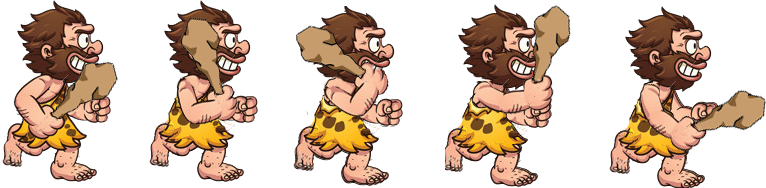
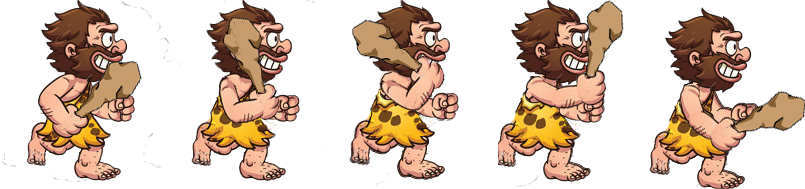
Caveman running to the left side and jumping

diff --git a/Caveman/Models/Caveman.cs b/Caveman/Models/Caveman.cs
@@ -1,6 +1,7 @@
 using Microsoft.Xna.Framework;
 using Microsoft.Xna.Framework.Content;
 using Microsoft.Xna.Framework.Graphics;
+using Microsoft.Xna.Framework.Input;
 using System;
 using System.Collections.Generic;
 using System.Linq;
@@ -12,8 +13,12 @@ namespace Caveman.Models
     public class Caveman : Sprite
     {
         float _timer;
-        public Caveman(Vector2 _position/*, Texture2D _texture, Color _color, Dictionary<string, Animation> _animations*/)
-            //: base(_position,_texture, _color, _animations)
+        private float VelocityX;
+        private float VelocityY =0.0f;
+        private float gravity = 0.5f;
+        private bool Jumping = false;
+
+        public Caveman(Vector2 _position)
         {
             this.Position = _position;
             this.Color = Color.White;
@@ -23,16 +28,19 @@ namespace Caveman.Models
         {
             Dictionary<String, Animation> animDict = new Dictionary<string, Animation> {
                 {"Standing",
-                    new Animation(content.Load<Texture2D>("CavemanStanding_sm"),4,0.5f)
+                    new Animation(content.Load<Texture2D>("CavemanStanding_sm"),4,0.4f,Animation.Loopeable)
                 },
-                {"Walking",
-                    new Animation(content.Load<Texture2D>("CavemanRunning"),7,0.2f)
+                {"Running",
+                    new Animation(content.Load<Texture2D>("CavemanRunning_sm"),6,0.2f,Animation.Loopeable)
+                },
+                {"Running_left",
+                    new Animation(content.Load<Texture2D>("CavemanRunningLeft_sm"),6,0.2f,Animation.Loopeable)
                 },
                 {"Jumping",
-                    new Animation(content.Load<Texture2D>("CavemanJumping"),4,0.2f)
+                    new Animation(content.Load<Texture2D>("CavemanJumping_sm"),7,0.3f,Animation.NotLoopeable)
                 },
                 {"Hitting",
-                    new Animation(content.Load<Texture2D>("CavemanHitting"),5,0.2f)
+                    new Animation(content.Load<Texture2D>("CavemanHitting_sm"),5,0.1f,Animation.NotLoopeable)
                 },
             };
 
@@ -42,7 +50,46 @@ namespace Caveman.Models
         public override void Update(ref GameTime gameTime)
         {
             currentAnimation = AnimationsDict["Standing"];
-            //currentAnimation.CurrentFrame = 0;
+            currentAnimation.IsLooping = false;
+
+            #region Keys
+            if (Keyboard.GetState().IsKeyDown(Keys.C))
+            {
+                currentAnimation = AnimationsDict["Hitting"];
+            }
+            else if (Keyboard.GetState().IsKeyDown(Keys.Right))
+            {
+                if (!currentAnimation.IsLooping)
+                {
+                    this.Position = new Vector2(this.Position.X + 2, this.Position.Y);
+                    currentAnimation = AnimationsDict["Running"];
+                }
+            }
+            else if (Keyboard.GetState().IsKeyDown(Keys.Left))
+            {
+                this.Position = new Vector2(this.Position.X - 2, this.Position.Y);
+                currentAnimation = AnimationsDict["Running_left"];
+            }
+
+            if (Keyboard.GetState().IsKeyDown(Keys.Space))
+            {
+                currentAnimation = AnimationsDict["Jumping"];
+                StartJumping();
+            }
+            if (Keyboard.GetState().IsKeyUp(Keys.Space)) {
+                EndJumping();
+            }
+            #endregion
+
+            VelocityY += gravity;
+            this.Position += new Vector2(0, VelocityY);
+
+            if (this.Position.Y > 350)
+            {
+                this.Position = new Vector2(this.Position.X, 350);
+                VelocityY = 0.0f;
+                Jumping = false;
+            }
 
             _timer += (float)gameTime.ElapsedGameTime.TotalSeconds;
 
@@ -53,14 +100,38 @@ namespace Caveman.Models
                 currentAnimation.CurrentFrame++;
 
                 if (currentAnimation.CurrentFrame >= currentAnimation.FrameCount)
+                {
                     currentAnimation.CurrentFrame = 0;
+                    currentAnimation.IsLooping = false;
+                }
             }
         }
 
+        private void StartJumping()
+        {
+            if (!Jumping)
+            {
+                VelocityY = -12.0f;
+                Jumping = true;
+            }
+        }
+
+        private void EndJumping()
+        {
+            if (VelocityY < -6.0f)
+            {
+                VelocityY = -6.0f;
+                
+            }
+        }
+
+        internal void MoveBackwards()
+        {
+            this.Position = new Vector2(this.Position.X -2, this.Position.Y);
+        }
 
         public override void Draw(ref SpriteBatch spriteBatch, ref GameTime gameTime)
         {
-            //spriteBatch.Draw(this.currentAnimati, this.Position, this.Color);
 
             spriteBatch.Draw(currentAnimation.Texture,
                  Position,

diff --git a/Caveman/Models/Animation.cs b/Caveman/Models/Animation.cs
@@ -9,31 +9,27 @@ namespace Caveman.Models
 {
     public class Animation
     {
+        public static bool NotLoopeable = false;
+        public static bool Loopeable = true;
+
         public int CurrentFrame { get; set; }
-
         public int FrameCount { get; private set; }
-
         public int FrameHeight { get { return Texture.Height; } }
-
         public float FrameSpeed { get; set; }
-
         public int FrameWidth { get { return Texture.Width / FrameCount; } }
-
         public bool IsLooping { get; set; }
+        public bool IsLoopeable { get; set; }
 
         public Texture2D Texture { get; private set; }
 
-        public Animation(Texture2D texture, int frameCount, float frameSpeed)
+        public Animation(Texture2D texture, int frameCount, float frameSpeed, bool isLoopeable)
         {
-            Texture = texture;
-
-            FrameCount = frameCount;
-
-            IsLooping = true;
-
-            FrameSpeed = frameSpeed;
-
-            CurrentFrame = 0;
+            this.Texture = texture;
+            this.FrameCount = frameCount;
+            this.IsLooping = true;
+            this.FrameSpeed = frameSpeed;
+            this.CurrentFrame = 0;
+            this.IsLoopeable = isLoopeable;
         }
     }
 }

diff --git a/Caveman/Models/Background.cs b/Caveman/Models/Background.cs
@@ -14,6 +14,7 @@ namespace Caveman.Models
         private BaseSprite layer0;
         private BaseSprite layer1;
         private BaseSprite layer2;
+        public int Rounds { get; set; }
 
         public float Velocity = 2.0f;
 
@@ -22,6 +23,7 @@ namespace Caveman.Models
             this.layer0 = new BaseSprite { Position = new Vector2(0,0), Texture= _texture0,Color = Color.White };
             this.layer2 = new BaseSprite { Position = new Vector2(0, 260), Texture = _texture1, Color = Color.White };
             position = Game1.Bounds;
+            this.Rounds = 0;
         }
 
         internal void Draw(ref SpriteBatch spriteBatch, ref GameTime gameTime)
@@ -38,8 +40,15 @@ namespace Caveman.Models
         internal void Update(GameTime gameTime)
         {
 
+        }
+
+        public void MoveForward()
+        {
             if (layer2.Position.X <= -layer2.Texture.Width)
-                layer2.Position = new Vector2(0,layer2.Position.Y);
+            {
+                layer2.Position = new Vector2(0, layer2.Position.Y);
+                this.Rounds += 1;
+            }
 
             else
                 layer2.Position = new Vector2(layer2.Position.X - Velocity, layer2.Position.Y);

diff --git a/Caveman/Models/Level1.cs b/Caveman/Models/Level1.cs
@@ -44,6 +44,11 @@ namespace Caveman.Models
         {
             base.Update(ref gameTime);
             caveman.Update(ref gameTime);
+            if (caveman.Position.X >= Game1.Bounds.Width / 2)
+            {
+                caveman.MoveBackwards();
+                background.MoveForward();
+            }
         }
 
         public override void Draw(ref SpriteBatch spriteBatch, ref GameTime gameTime)
